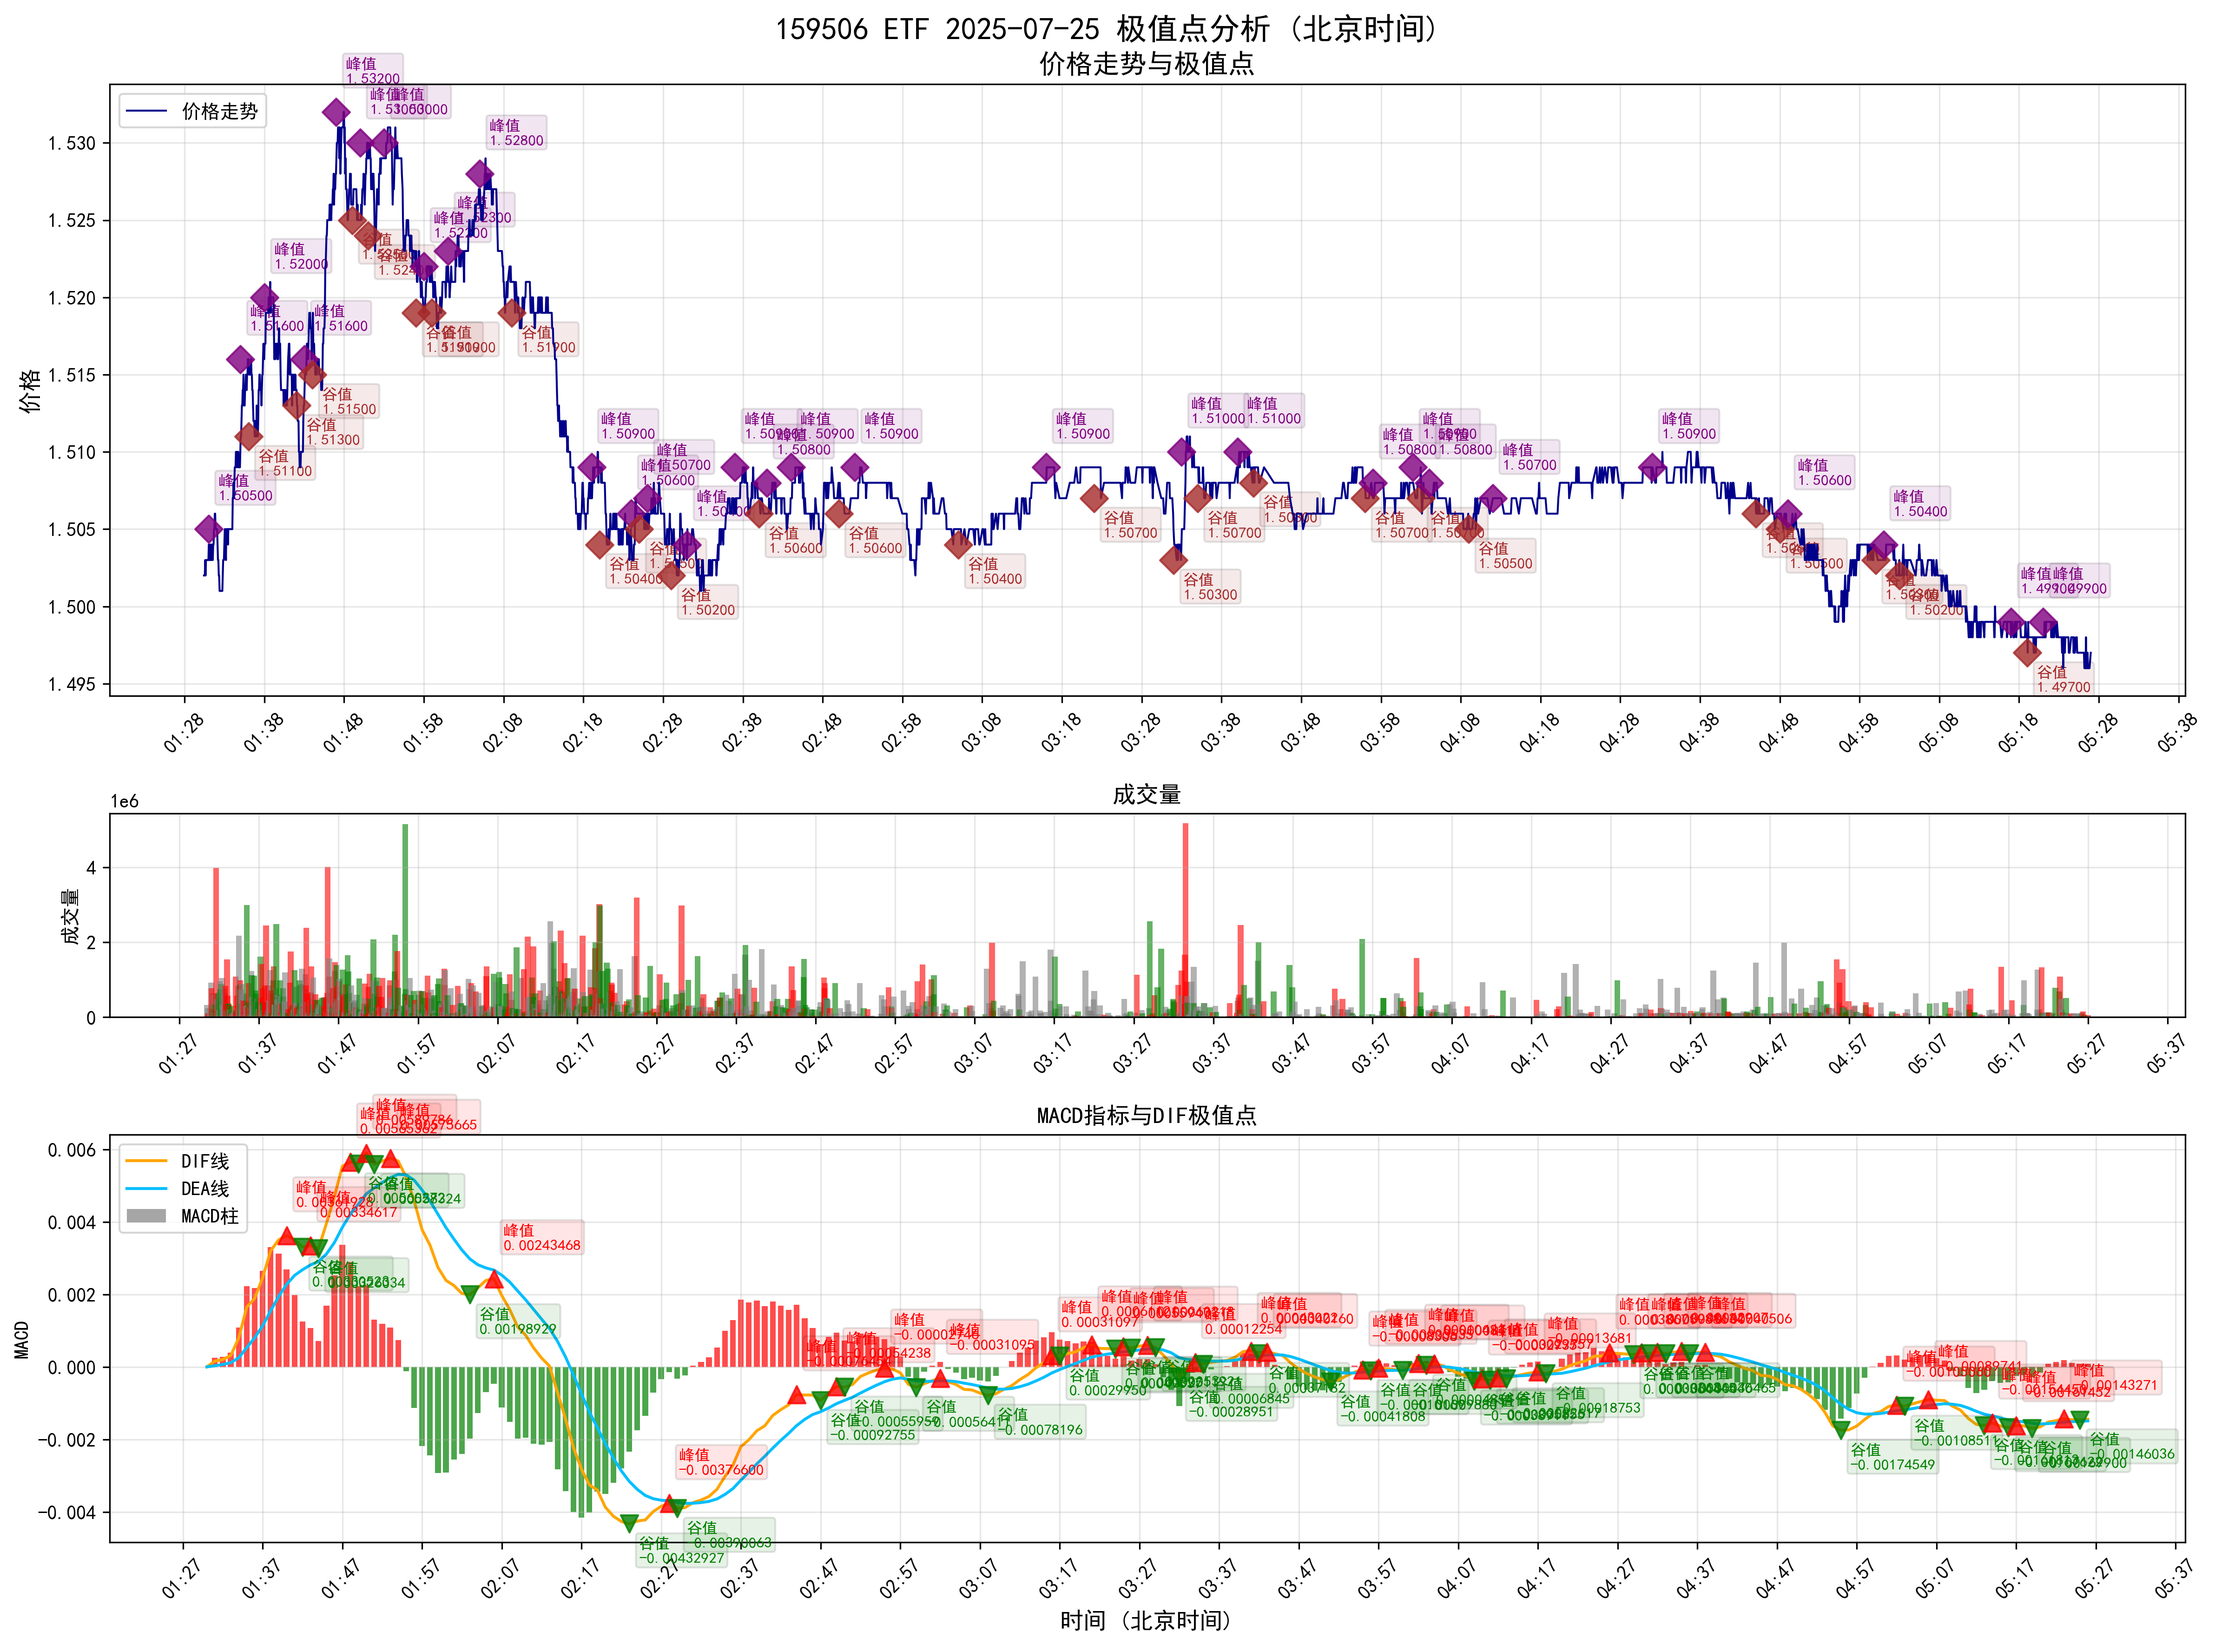
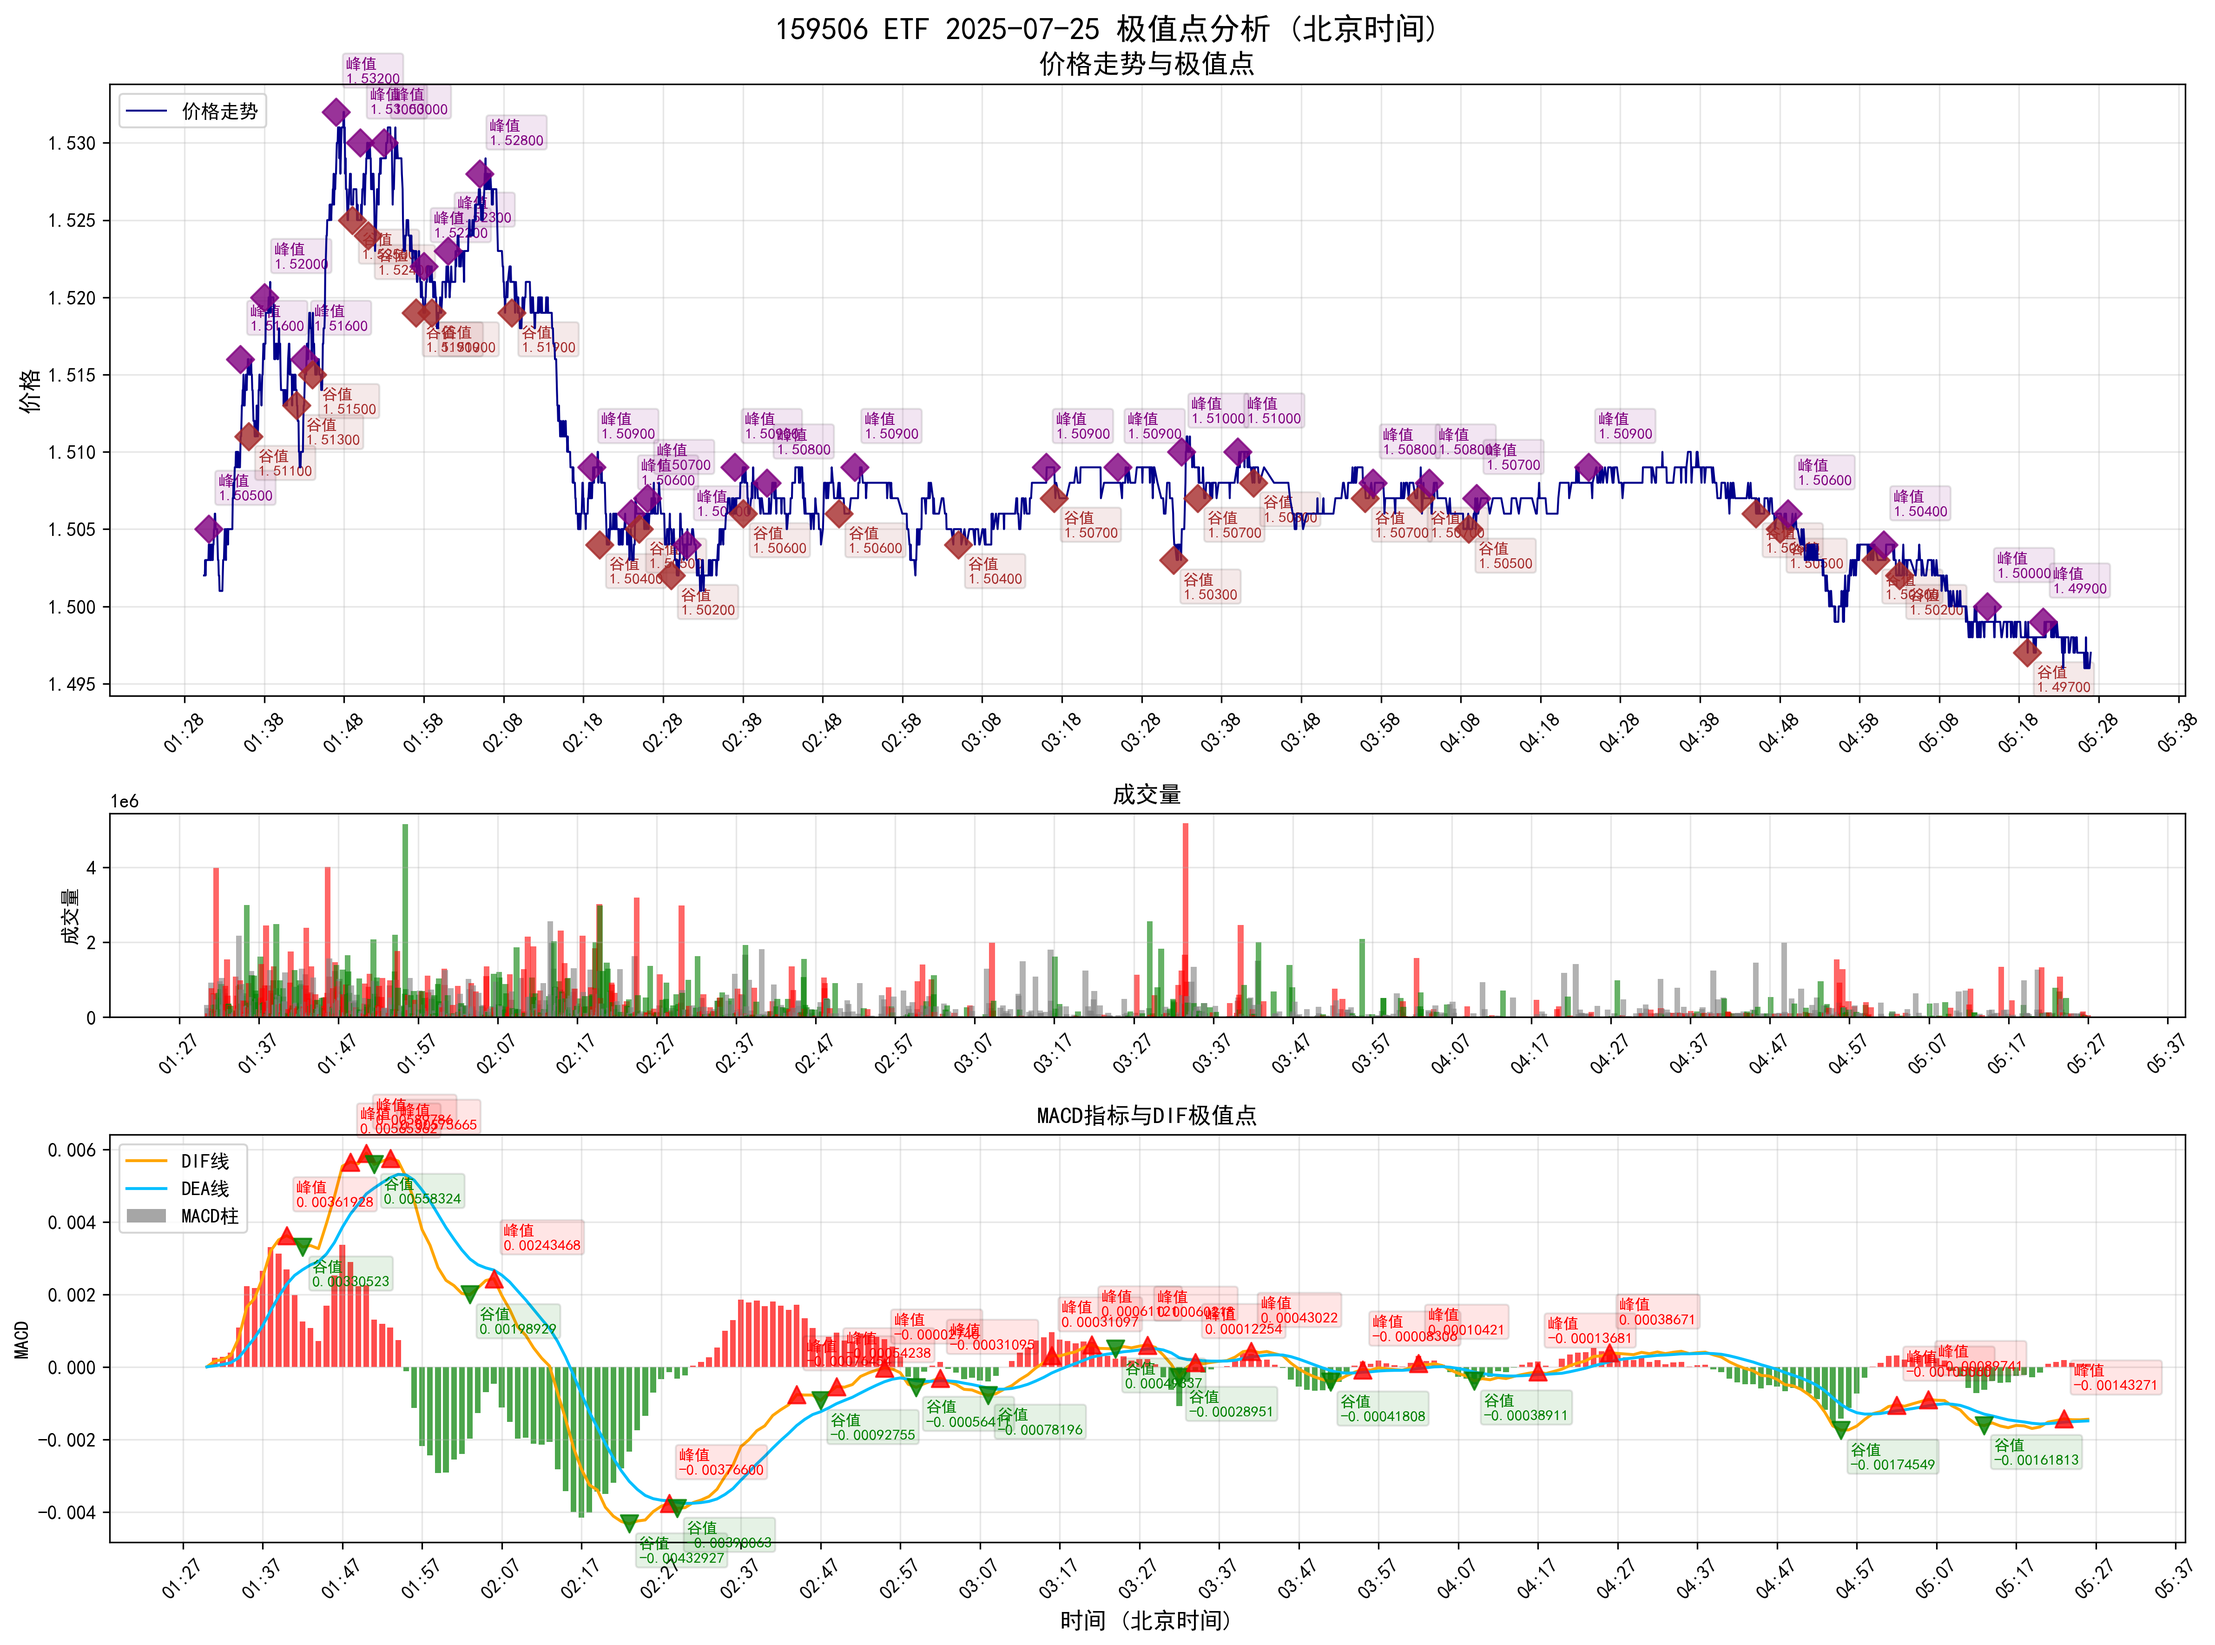
1

diff --git a/etf_159506_strategy.py b/etf_159506_strategy.py
@@ -517,9 +517,9 @@ class ETF159506Strategy(Strategy):
         # 根据数据类型自动设置最小极值距离
         if min_extreme_distance is None:
             if data_type == 'price':
-                min_extreme_distance = 0  # 价格最小差异0.001元
+                min_extreme_distance = 0.001  # 价格最小差异0.001元
             else:  # data_type == 'macd'
-                min_extreme_distance = 0  # DIF最小差异0.00001
+                min_extreme_distance = 0.0001  # DIF最小差异0.0001
         # 根据数据类型选择对应的历史记录
         if data_type == 'price':
             history = self.price_extremes_history
@@ -549,6 +549,12 @@ class ETF159506Strategy(Strategy):
         
         # 如果新极值与上一个极值类型相同
         else:
+            # 计算与上一个极值的绝对差异
+            diff_absolute = abs(prev_value - last_extreme_value)
+            
+            # 如果差异太小，略过当前极值
+            if diff_absolute < min_extreme_distance:
+                return False, None
             # 根据极值类型决定保留策略
             if extreme_type == 'peak':
                 # 峰值：保留更大的值

diff --git a/test_extreme_detection.py b/test_extreme_detection.py
@@ -44,7 +44,12 @@ def is_relative_extreme(extreme_type, current_value, current_timestamp,
     
     # 如果新极值与上一个极值类型相同
     else:
+         # 计算与上一个极值的绝对差异
+        diff_absolute = abs(current_value - last_extreme_value)
         
+        # 如果差异太小，略过当前极值
+        if diff_absolute < min_extreme_distance:
+            return False, None
         # 根据极值类型决定保留策略
         if extreme_type == 'peak':
             # 峰值：保留更大的值
